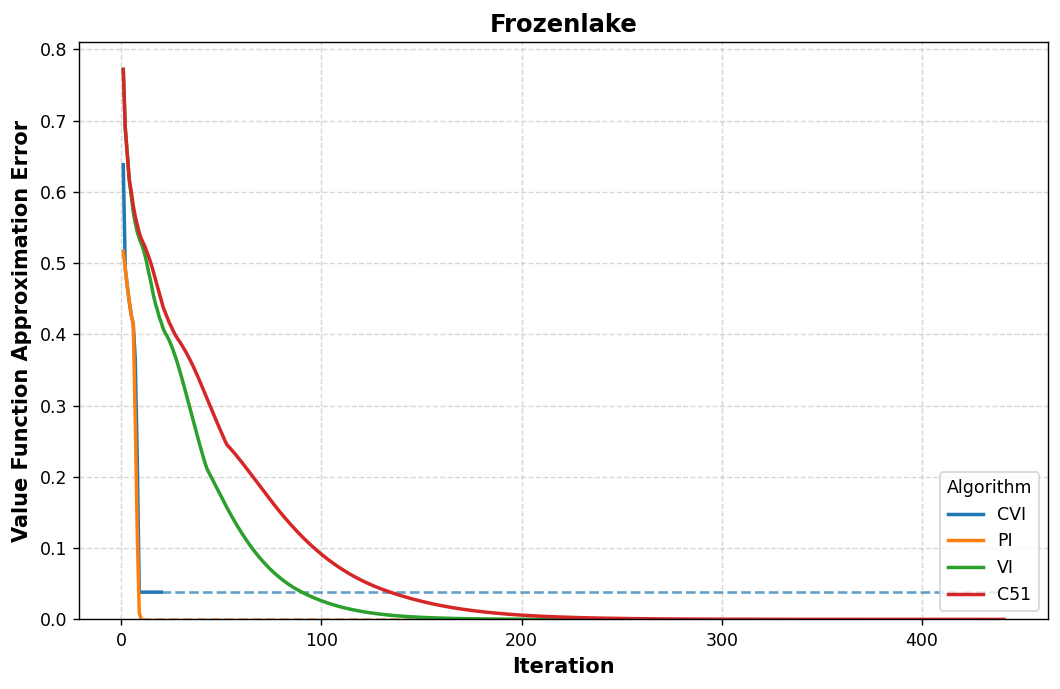
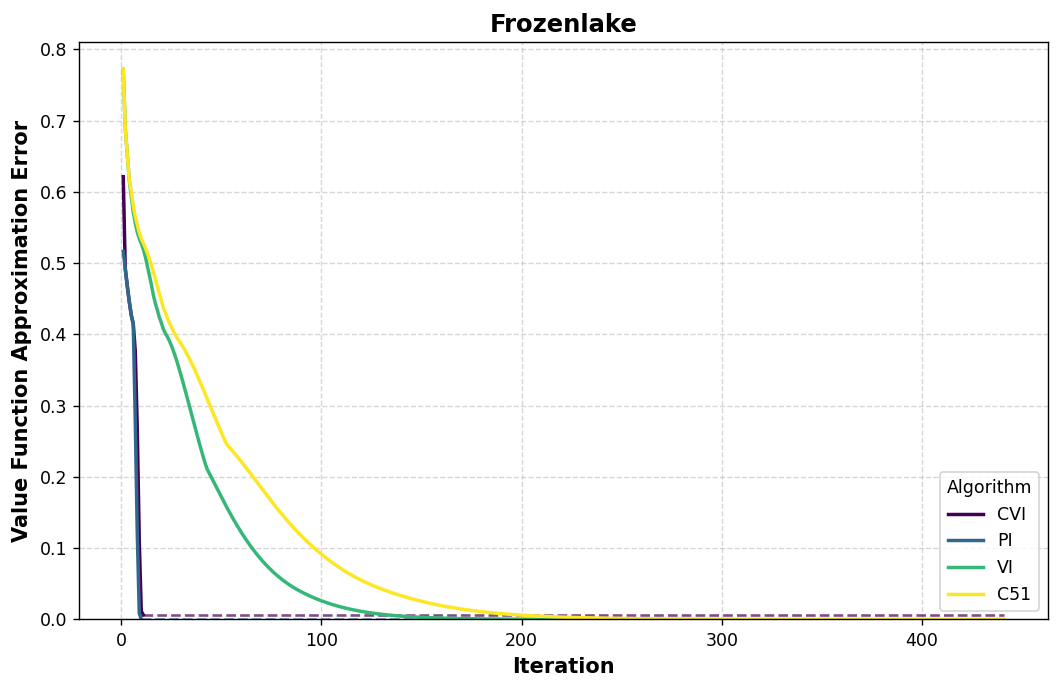
fix: updated mean v to error plots

diff --git a/process_experiments.py b/process_experiments.py
@@ -9,9 +9,19 @@ WANDB_ENTITY = "fatty_data"
 WANDB_PROJECT = "CVI-RL"
 METRIC_NAME = "td_error"
 
+import matplotlib.cm as cm
+
 ALGORITHMS = ["cvi", "pi", "vi", "c51"]
 COLORS = {"cvi": "#1f77b4", "pi": "#ff7f0e", "vi": "#2ca02c", "c51": "#d62728"}
 ALGO_LABELS = {"cvi": "CVI", "pi": "PI", "vi": "VI", "c51": "C51"}
+
+viridis = cm.get_cmap('viridis')
+n_algos = len(ALGORITHMS)
+COLORS = {}
+for i, algo in enumerate(ALGORITHMS):
+    rgba = viridis(i / (n_algos - 1))
+    hex_color = '#{:02x}{:02x}{:02x}'.format(int(rgba[0]*255), int(rgba[1]*255), int(rgba[2]*255))
+    COLORS[algo] = hex_color
 
 
 def get_runs(api, project_path, env_name, algo_name):
